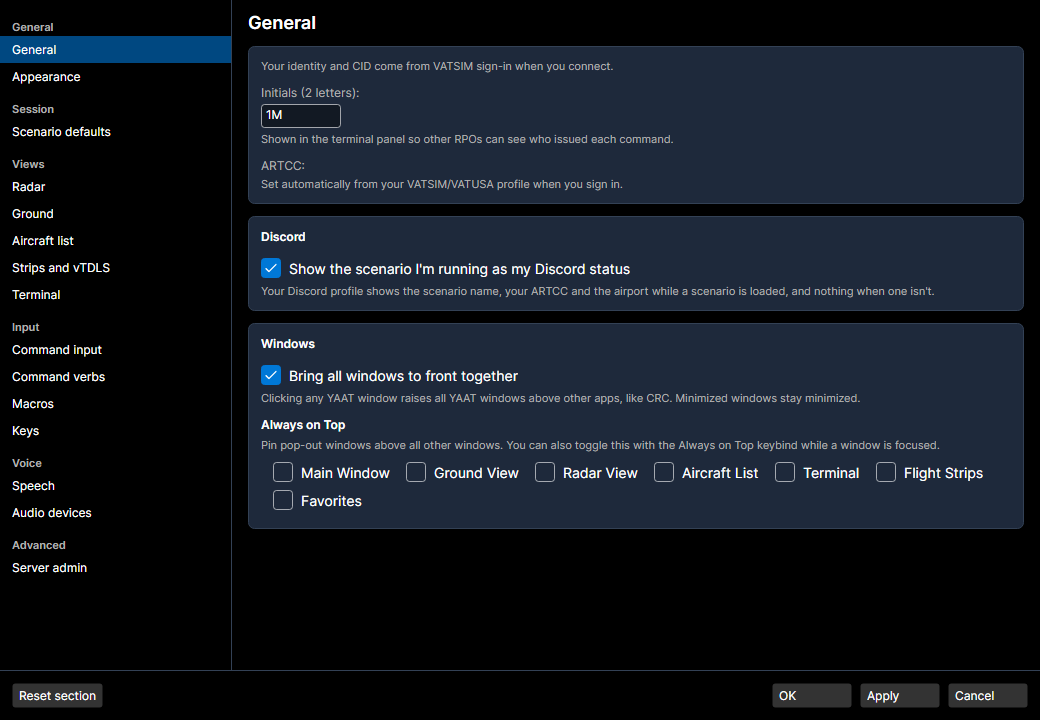
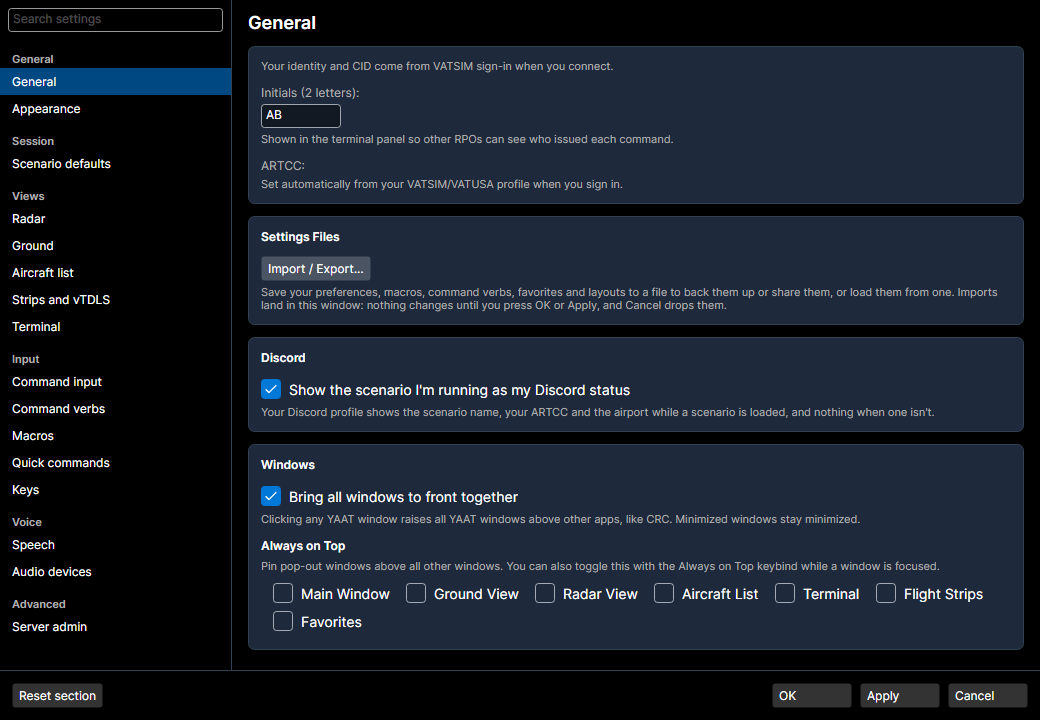
feat: user-guide shots of Settings, Import / Export, layouts and CRC
GuideCapture re-shoots the redesigned Settings window and adds the
Radar, Ground, Quick commands and Keys sections, the Import / Export
hub and the View menu's Layout submenu (menu helpers now run a layout
pass so a submenu opens beside its parent). Getting Started step 2 and
the User Guide reference them; CRC's environment list is a hand-taken
shot. The About and pop-out view scenes no image used are removed.

Refs https://github.com/leftos/yaat/issues/828

Refs: YAAT-354

diff --git a/tools/Yaat.GuideCapture/Capture/SceneActions.cs b/tools/Yaat.GuideCapture/Capture/SceneActions.cs
@@ -67,19 +67,47 @@ internal static class SceneActions
     // underscores ignored, so "_File" and "File" both find the "_File" item)
     // and waits until every visible item in its dropdown is laid out. The
     // headless platform has no popup windows, so the dropdown opens in the
-    // window's overlay layer and CaptureRenderedFrame includes it.
-    public static async Task OpenMenuAsync(Window window, string menuHeader, TimeSpan timeout)
+    // window's overlay layer and CaptureRenderedFrame includes it. Returns the
+    // opened item, so a scene can open one of its submenus next.
+    public static async Task<MenuItem> OpenMenuAsync(Window window, string menuHeader, TimeSpan timeout)
     {
         Menu menu =
             window.GetLogicalDescendants().OfType<Menu>().FirstOrDefault()
             ?? throw new InvalidOperationException($"{window.GetType().Name} has no Menu.");
-        string wanted = StripAccessKeys(menuHeader);
         MenuItem item =
-            menu.Items.OfType<MenuItem>().FirstOrDefault(m => (m.Header is string header) && (StripAccessKeys(header) == wanted))
-            ?? throw new InvalidOperationException($"No top-level menu '{menuHeader}' in {window.GetType().Name}.");
+            FindItem(menu.Items, menuHeader) ?? throw new InvalidOperationException($"No top-level menu '{menuHeader}' in {window.GetType().Name}.");
 
         item.Open();
         await WaitUntilAsync(() => IsDropdownLaidOut(item), timeout, $"menu '{menuHeader}' to open");
+        ArrangeDropdownHost(window);
+        return item;
+    }
+
+    // Opens the submenu whose header matches submenuHeader inside an open
+    // menu (OpenMenuAsync's result, or another submenu) and waits until its
+    // dropdown is laid out; it draws in the overlay layer like its parent.
+    // The submenu is placed from its item's window position, which is only
+    // right once the parent dropdown's host has been arranged.
+    public static async Task<MenuItem> OpenSubmenuAsync(MenuItem parent, string submenuHeader, TimeSpan timeout)
+    {
+        MenuItem item =
+            FindItem(parent.Items, submenuHeader)
+            ?? throw new InvalidOperationException($"No submenu '{submenuHeader}' under menu '{parent.Header}'.");
+        TopLevel top = TopLevel.GetTopLevel(parent) ?? throw new InvalidOperationException($"Menu '{parent.Header}' is not in a window.");
+
+        item.Open();
+        await WaitUntilAsync(() => IsDropdownLaidOut(item), timeout, $"submenu '{submenuHeader}' to open");
+        ArrangeDropdownHost(top);
+        return item;
+    }
+
+    // A dropdown's overlay host takes its position from the overlay layer's
+    // next arrange; until then it sits at the window's origin, and so does
+    // every window position measured inside it.
+    private static void ArrangeDropdownHost(TopLevel top)
+    {
+        top.UpdateLayout();
+        Dispatcher.UIThread.RunJobs();
     }
 
     // Opens the flyout attached to the window's button whose content is
@@ -125,6 +153,13 @@ internal static class SceneActions
         string displayName = Path.GetFileNameWithoutExtension(scenarioPath);
         await vm.AutoLoadScenarioFromJsonAsync(json, displayName, displayName);
         await WaitUntilAsync(() => vm.HasScenario, timeout, "scenario load");
+    }
+
+    // Access-key underscores are ignored, so "_File" and "File" both find the "_File" item.
+    private static MenuItem? FindItem(ItemCollection items, string header)
+    {
+        string wanted = StripAccessKeys(header);
+        return items.OfType<MenuItem>().FirstOrDefault(m => (m.Header is string itemHeader) && (StripAccessKeys(itemHeader) == wanted));
     }
 
     private static bool IsDropdownLaidOut(MenuItem item)

diff --git a/tools/Yaat.GuideCapture/Scenes/SettingsSectionScenes.cs b/tools/Yaat.GuideCapture/Scenes/SettingsSectionScenes.cs
@@ -1,0 +1,55 @@
+using Avalonia.Controls;
+using Avalonia.Threading;
+using Yaat.Client.ViewModels;
+using Yaat.Client.Views;
+using Yaat.GuideCapture.Capture;
+
+namespace Yaat.GuideCapture.Scenes;
+
+// USER_GUIDE.md > Customization > Settings, one section each. The window at
+// its natural size with the section selected in the sidebar, as a user who
+// clicks it sees it: a section longer than the pane shows its top.
+internal abstract class SettingsSectionSceneBase : StandaloneWindowSceneBase
+{
+    protected abstract SettingsSectionId Section { get; }
+
+    public override Window CreateWindow(CaptureContext ctx) => new SettingsWindow();
+
+    public override Task AfterShowAsync(Window window, CaptureContext ctx)
+    {
+        var settings = (SettingsWindow)window;
+        settings.SelectSection(Section);
+        Dispatcher.UIThread.RunJobs();
+        settings.UpdateLayout();
+        Dispatcher.UIThread.RunJobs();
+        return Task.CompletedTask;
+    }
+}
+
+internal sealed class SettingsRadarScene : SettingsSectionSceneBase
+{
+    public override string Name => "settings-radar";
+
+    protected override SettingsSectionId Section => SettingsSectionId.Radar;
+}
+
+internal sealed class SettingsGroundScene : SettingsSectionSceneBase
+{
+    public override string Name => "settings-ground";
+
+    protected override SettingsSectionId Section => SettingsSectionId.Ground;
+}
+
+internal sealed class SettingsQuickCommandsScene : SettingsSectionSceneBase
+{
+    public override string Name => "settings-quick-commands";
+
+    protected override SettingsSectionId Section => SettingsSectionId.QuickCommands;
+}
+
+internal sealed class SettingsKeysScene : SettingsSectionSceneBase
+{
+    public override string Name => "settings-keys";
+
+    protected override SettingsSectionId Section => SettingsSectionId.Keys;
+}

diff --git a/tools/Yaat.GuideCapture/Capture/SceneCatalog.cs b/tools/Yaat.GuideCapture/Capture/SceneCatalog.cs
@@ -6,8 +6,8 @@ internal static class SceneCatalog
 {
     // Every scene the harness captures, in capture order, grouped by the guide
     // section that shows it. A scene's Name is its PNG file name. The popout
-    // scenes run after every other main-window scene: the pop-out state they
-    // set is saved to preferences and restored by every later MainWindow,
+    // scene runs after every other main-window scene: the pop-out state it
+    // sets is saved to preferences and restored by every later MainWindow,
     // which would drop the Ground and Radar tabs from those shots.
     public static IReadOnlyList<Scene> All { get; } =
     [
@@ -33,6 +33,8 @@ internal static class SceneCatalog
         new FlightStripsScene(),
         new VtdlsTabScene(),
         new FlightPlanEditorScene(),
+        // Applying a Layout (adds a saved layout, deleted in AfterCapture)
+        new MenuViewLayoutsScene(),
         // Command Input > Favorite Commands
         new FavoritesBarScene(),
         new FavoritesPanelScene(),
@@ -49,15 +51,17 @@ internal static class SceneCatalog
         new JustLandedScene(),
         // Popouts
         new MainWindowPoppedOutScene(),
-        new GroundViewPopoutScene(),
-        new RadarViewPopoutScene(),
         // Standalone dialogs / windows
         new SettingsWindowScene(),
+        new SettingsRadarScene(),
+        new SettingsGroundScene(),
+        new SettingsQuickCommandsScene(),
+        new SettingsKeysScene(),
+        new ImportExportHubScene(),
         new LoadScenarioDialogScene(),
         new LoadWeatherDialogScene(),
         new WeatherEditorScene(),
         new ArrivalGeneratorsEditorScene(),
         new FileBugReportDialogScene(),
-        new AboutWindowScene(),
     ];
 }

diff --git a/tools/Yaat.GuideCapture/Scenes/MenuViewLayoutsScene.cs b/tools/Yaat.GuideCapture/Scenes/MenuViewLayoutsScene.cs
@@ -1,0 +1,45 @@
+using Avalonia.Controls;
+using Avalonia.Threading;
+using Yaat.Client.Services;
+using Yaat.Client.ViewModels;
+using Yaat.Client.Views;
+using Yaat.GuideCapture.Capture;
+
+namespace Yaat.GuideCapture.Scenes;
+
+// USER_GUIDE.md > Applying a Layout or Another Scenario's Views. The
+// disconnected main window with View > Layout open, listing one saved layout
+// the scene saves first and deletes in AfterCapture.
+internal sealed class MenuViewLayoutsScene : Scene
+{
+    private const string LayoutName = "Tower cab";
+
+    private static readonly TimeSpan MenuTimeout = TimeSpan.FromSeconds(5);
+
+    private UserPreferences? _preferences;
+
+    public override string Name => "menu-view-layouts";
+
+    public override Window CreateWindow(CaptureContext ctx) => new MainWindow();
+
+    public override async Task AfterShowAsync(Window window, CaptureContext ctx)
+    {
+        if (window.DataContext is not MainViewModel vm)
+        {
+            throw new InvalidOperationException("MainWindow.DataContext is not MainViewModel");
+        }
+
+        _preferences = vm.Preferences;
+        _preferences.SaveLayout(new SavedLayout { Name = LayoutName });
+        Dispatcher.UIThread.RunJobs();
+
+        MenuItem view = await SceneActions.OpenMenuAsync(window, "_View", MenuTimeout);
+        await SceneActions.OpenSubmenuAsync(view, "_Layout", MenuTimeout);
+    }
+
+    public override void AfterCapture()
+    {
+        _preferences?.DeleteLayout(LayoutName);
+        _preferences = null;
+    }
+}

diff --git a/tools/Yaat.GuideCapture/Scenes/ImportExportHubScene.cs b/tools/Yaat.GuideCapture/Scenes/ImportExportHubScene.cs
@@ -1,0 +1,29 @@
+using Avalonia.Controls;
+using Yaat.Client.Services;
+using Yaat.Client.ViewModels;
+using Yaat.Client.Views;
+using Yaat.GuideCapture.Capture;
+
+namespace Yaat.GuideCapture.Scenes;
+
+// USER_GUIDE.md > Customization > Settings > Importing and exporting settings.
+// The hub as Tools > Import / Export... opens it: the Export tab, nothing
+// ticked. It reads the capture run's own preferences and favorites, which
+// ModuleInit keeps in a temp folder, and the scene never exports or imports.
+internal sealed class ImportExportHubScene : StandaloneWindowSceneBase
+{
+    public override string Name => "import-export-hub";
+
+    public override Window CreateWindow(CaptureContext ctx)
+    {
+        var preferences = new UserPreferences();
+        var favorites = new FavoriteStore(FavoriteStore.DefaultRootDir);
+        return new ImportExportWindow(
+            preferences,
+            new UserPreferencesImportTarget(preferences, favorites),
+            new UserPreferencesExportSource(preferences, favorites),
+            new HashSet<SettingsItemType>(),
+            ImportExportTab.Export
+        );
+    }
+}

diff --git a/tools/Yaat.GuideCapture/Scenes/StandaloneWindowSceneBase.cs b/tools/Yaat.GuideCapture/Scenes/StandaloneWindowSceneBase.cs
@@ -3,7 +3,7 @@ using Yaat.GuideCapture.Capture;
 namespace Yaat.GuideCapture.Scenes;
 
 // Base for scenes that capture a standalone window directly (Settings, Load
-// Scenario, About, etc.) without booting MainWindow or talking to the server.
+// Scenario, Weather, etc.) without booting MainWindow or talking to the server.
 // Subclasses just declare a Name and a CreateWindow factory; size 0/0 means
 // "use the window's XAML-declared default" so the dialog renders at its
 // natural dimensions.

diff --git a/USER_GUIDE.md b/USER_GUIDE.md
@@ -1222,6 +1222,8 @@ A cruise speed filed as a Mach number or as classified shows in the SPD box in g
 
 ### Applying a Layout or Another Scenario's Views
 
+![The View menu open on its Layout submenu, listing a saved layout named Tower cab above Save current as layout…, From this scenario's views… (greyed out with no scenario loaded), Manage layouts… and Reset aircraft list columns](docs/user-guide/img/menu-view-layouts.png)
+
 Use **View > Layout > From this scenario's views…** to open the **Apply Layout** dialog, which copies settings into the current scenario from one of two sources: **Scenario views** (another scenario's Ground and Radar view settings, including selected video maps, range, PTL, brightness, labels, and filters) or a **Saved layout** (window geometry, every pop-out window, extra Radar/Ground windows, favorites, open Strips/vTDLS tabs, and the Aircraft List column layout).
 
 The dialog shows your current value next to the source value for each setting, grouped into sections, and highlights the ones that differ. Tick the sections you want (**All** / **None** tick every section) and choose **Apply Selected** — matching sections start unticked, so you only copy real changes. When the source scenario is at a different airport, the map-position rows are flagged, since copying them moves your view to that airport.
@@ -2059,6 +2061,9 @@ Once CRC is configured:
 
 1. Have the student restart CRC (it reads `DevEnvironments.json` on startup)
 2. In CRC's environment selector, the student chooses **YAAT1** (or the entry for your own server)
+
+   ![CRC's Connect to VATSIM dialog with the Environment list open and YAAT1 selected](docs/user-guide/img/crc-environment-selector.png)
+
 3. The student connects with their VATSIM credentials
 4. In YAAT, open **Room > Members...** and click **Pull** next to the student in the **CRC Lobby** to bring them into your room — they immediately start seeing your room's traffic
 
@@ -2239,7 +2244,7 @@ The command bar remembers your last 50 commands. Navigate with Up/Down arrows:
 
 ### Settings
 
-![Settings window, General section](docs/user-guide/img/settings-window.png)
+![The Settings window on its General section, with the section sidebar on the left](docs/user-guide/img/settings-window.png)
 
 Open **Settings** (via **Tools > Settings**, or **Ctrl+,** from any YAAT window) to configure YAAT. A sidebar on the left lists its sections in six groups: **General** (General, Appearance), **Session** (Scenario defaults), **Views** (Radar, Ground, Aircraft list, Strips and vTDLS, Terminal), **Input** (Command input, Command verbs, Macros, Quick commands, Keys), **Voice** (Speech, Audio devices) and **Advanced** (Server admin). Click a section to show its settings.
 
@@ -2271,6 +2276,8 @@ Blue links such as **Font sizes → Appearance** or **Always on top → General*
 While the window is open, the aircraft list, terminal and interface font sizes, the Strips and vTDLS zoom, the ground colors and brightness, and the radar tint colors preview in the open views, so you can see them before applying. Cancel puts them back. Everything else takes effect when you press Apply or OK.
 
 #### Importing and exporting settings
+
+![The Import / Export window on its Export tab with nothing ticked, listing the six items, what each holds and the file type each exports as](docs/user-guide/img/import-export-hub.png)
 
 The **Import / Export** window saves your settings to a file, to back them up or share them, and loads them from one. It covers six items: **Preferences** (every Settings section), **Macros**, **Command verbs**, **Favorites**, **Aircraft list columns** and **Layouts**.
 
@@ -2360,6 +2367,8 @@ These are your **defaults** for new rooms, applied when *you* load a scenario. T
 
 #### Radar
 
+![Settings on its Radar section, with the links to Appearance and General at the top and the Radar Display options below](docs/user-guide/img/settings-radar.png)
+
 Links at the top: **Font sizes → Appearance**, **Always on top → General**.
 
 **Radar Display**:
@@ -2411,6 +2420,8 @@ Links at the top: **Font sizes → Appearance**, **Always on top → General**.
 | **Selected Aircraft Color** | Symbol and datablock color for the currently selected aircraft. | `#FFFFFF` (white) |
 
 #### Ground
+
+![Settings on its Ground section, with the Ground Display options and the start of the Ground View colors](docs/user-guide/img/settings-ground.png)
 
 Links at the top: **Font sizes → Appearance**, **Speech bubbles → Radar**, **Scroll sensitivity → Radar**, **Always on top → General**.
 
@@ -2488,9 +2499,13 @@ The **CRC Aliases** folder above the grid (with **Browse…**) says where YAAT r
 
 #### Quick commands
 
+![Settings on its Quick commands section, with the situation list, the At parking menu preview and that situation's five commands](docs/user-guide/img/settings-quick-commands.png)
+
 Each situation's quick commands on the aircraft right-click menu: the situation list, a menu preview, the selected situation's commands (drag to reorder, flight rules per command, custom commands with their own label), **Add command…**, **Add custom**, **Reset this situation** and **Reset all**. **Reset section** does the same as Reset all. See [Changing the quick commands](#aircraft-right-click-menu) under the right-click menu for the details.
 
 #### Keys
+
+![Settings on its Keys section, listing the keybinds with a button per key showing its current combo](docs/user-guide/img/settings-keys.png)
 
 Links at the top: **Push-to-talk key → Speech**, **Always on top → General**.
 

diff --git a/GETTING_STARTED.md b/GETTING_STARTED.md
@@ -35,6 +35,8 @@ YAAT verifies your identity through **VATSIM sign-in** — you no longer type yo
 
 One field stays yours to set, under **Tools > Settings**, in the **General** section — your operating **initials** (e.g., "JE", "AB"), suggested from your VATSIM name and shown in the terminal so other RPOs can see who issued each command.
 
+![The Settings window on its General section, with the initials field at the top and the section sidebar on the left](docs/user-guide/img/settings-window.png)
+
 Your **[ARTCC](#glossary)** is filled in automatically from your VATSIM/VATUSA profile when you sign in (US controllers from VATUSA, everyone else from their VATSIM subdivision) and updates on its own if you transfer facilities — there is no ARTCC field to enter.
 
 > **Who can connect:** YAAT1 admits you to **create rooms and load scenarios** if you hold a VATUSA mentor role or a VATSIM Instructor rating (I1/I2/I3) or higher.

diff --git a/CHANGELOG.md b/CHANGELOG.md
@@ -21,7 +21,7 @@
 - In solo radar sessions, IFR departures lined up at untowered fields ask for their release and wait in the Releases flyout until `REL` or `HFROFF`.
 - In solo training with a radar student, unscripted runway departures at towered fields, or VFR at untowered ones, depart unprompted; RPOs launch them manually.
 - Load Scenario's Local Files tab can load one scenario file directly and lists recent scenarios, marking moved or deleted files missing; Remove drops one.
-- Getting Started and the User Guide show screenshots of every step, including the terminal, timeline and bookmarks, taxi routes, a landing, and the vTDLS tab.
+- Getting Started and the User Guide show screenshots of every step, including the terminal, timeline, taxi routes, vTDLS, Settings, Import / Export, layouts and CRC's environment list.
 
 ### Changed
 
